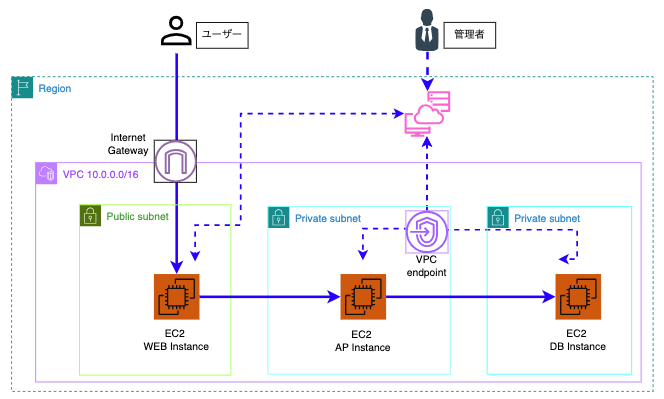
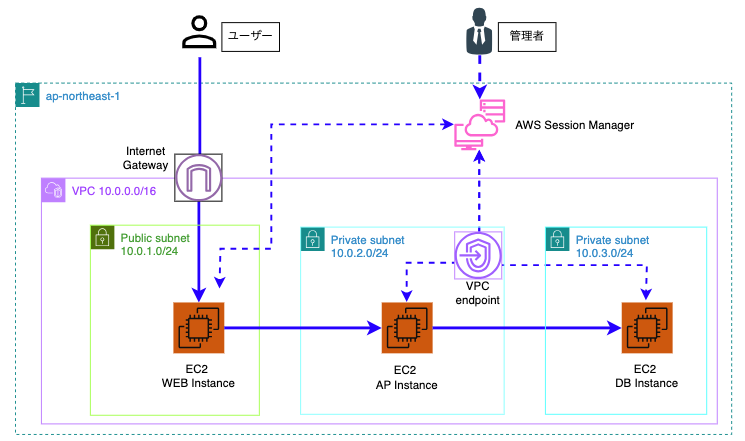
feat: マルチAZ冗長化、ALB、RDS Multi-AZの導入およびREADME・構成図の追加

diff --git a/README.md b/README.md
@@ -1,61 +1,52 @@
-# AWS × Terraform Web/AP/DB 3層インフラ基盤ポートフォリオ
+# AWS 高可用性 Web/AP/DB 3層アーキテクチャ（Terraform）
 
-AWSのベストプラクティスに基づき、堅牢なセキュリティ（SSM・サブネット多層分離・最小権限SG）とコスト最適化を両立させた Web/AP/DB の標準的な3層システム基盤をTerraform（IaC）でモジュール化して自動構築したプロジェクトです。
-
----
-
-## 🏛 アーキテクチャ構成図
-
-![Architecture Diagram](./portfolio.png)
+AWS 上にマルチAZ冗長化、多層防御、および踏み台レスなセキュア運用を組み込んだ 3層アーキテクチャを Terraform（IaC）で構築したポートフォリオです。
 
 ---
 
-## 🎯 設計のポイントとアピール要素
+## 1. システム構成図
 
-### 1. 多層防御を考慮したネットワーク・セキュリティ設計（SAA/SAP基準）
-* **Web / AP / DB サブネットの完全分離**
-  * **Public Subnet (10.0.1.0/24)**: 外部ネットワークからの通信の入り口となる Web 層を配置。
-  * **Private AP Subnet (10.0.2.0/24)**: ビジネスロジックを担う AP 層をインターネットから隔離された閉域網に配置。
-  * **Private DB Subnet (10.0.3.0/24)**: 重要なデータ層は独立した閉域サブネットへ隔離。
-* **22番（SSH）ポートの完全閉塞と AWS SSM Session Manager 導入**
-  * SSH (22/TCP) ポートを開放せず、AWS Systems Manager (SSM) Session Manager 経由でリモートアクセスを制御。
-  * 踏み台（Bastion）サーバー不要とし、管理コスト低減・鍵漏洩リスクの排除を実現。
-* **最小権限のセキュリティグループ（カスケード制御）**
-  * `web-sg`: 外部からの HTTP (80/TCP) 通信を許可。
-  * `ap-sg`: `web-sg` からの通信 (8080/TCP) のみを許可。
-  * `db-sg`: `ap-sg` からの通信 (3306/TCP) のみを許可し、Web層からの直接アクセスは完全遮断。
-
-### 2. 攻撃対象面（Attack Surface）の最小化（Minimal OSアプローチ）
-* 近年多発するミドルウェア・ランタイム層（Webサーバーやプログラミング言語環境等）の緊急脆弱性リスクを鑑み、OS起動時点では不要なパッケージやミドルウェアを含めない**最小構成（Minimal Infrastructure）**を採用。
-* 実運用時はマネージドサービス（Amazon RDS）や構成管理ツール（Ansible/コンテナ）を用いた適切なデプロイラインを前提とし、本ポートフォリオではインフラ基盤（IaC）の再現性に特化。
-
-### 3. Terraform による完全モジュール化（IaC）
-* `vpc` / `security_group` / `ec2` の機能別にモジュールを分離し、高い再利用性と保守性を実現。
-* `data "aws_ami"` を活用し、Amazon Linux 2023 の最新 AMI を自動取得。
+![システム構成図](./portfolio*.png)
 
 ---
 
-## 🛠 使用技術・環境
+## 2. アーキテクチャの設計思想と特徴
 
-| 分類 | 採用技術 |
-| :--- | :--- |
-| **Cloud** | AWS (VPC, Subnet, EC2, Elastic IP, IAM, SSM) |
-| **IaC** | Terraform (v1.2+) / AWS Provider (v5.x) |
-| **OS** | Amazon Linux 2023 (Web / AP / DB) |
-| **Security** | IAM Role (AmazonSSMManagedInstanceCore), Security Group |
+### ① Multi-AZ による高可用性（HA）
+- `ap-northeast-1a` と `ap-northeast-1c` の 2 つのアベイラビリティゾーンに Web・AP・DB 層を分散配置。
+- 単一のデータセンター障害が発生した場合でも、サービス継続が可能な耐障害性を確保。
+
+### ② 多層防御（ゼロトラスト志向の閉域化）
+- インターネット境界には ALB（Application Load Balancer）のみを配置。
+- Web・AP・DB はすべてプライベートサブネットに隔離し、前段からの特定ポートのみをセキュリティグループで連鎖的に許可（ALB ➔ Web ➔ AP ➔ DB）。
+
+### ③ ALB による負荷分散と自動切り離し
+- 2台の Web インスタンスへのトラフィック分散。
+- ヘルスチェック（`/` 監視）により、異常インスタンスを検知してトラフィックから自動除外。
+
+### ④ RDS Multi-AZ による耐障害性とデータ保護
+- Primary（1a）から Standby（1c）への**同期レプリケーション**を確立。
+- 定常時は両 AP サーバから Primary へアクセスし、障害発生時は自動フェイルオーバーによってダウンタイムを最小化。
+
+### ⑤ 踏み台レス・セキュアな運用管理
+- インターネットに露出する踏み台 EC2 や SSH 鍵の管理を排除。
+- **AWS Systems Manager (SSM) Session Manager** および Interface 型 VPC エンドポイント（ssm, ssmmessages, ec2messages）経由で、閉域内の AP サーバへ安全にアクセス。
+- RDS のメンテナンス時は、AP サーバを中継点とした SSM ポートフォワーディングにより、ローカル端末から安全に接続可能。
 
 ---
 
-## 📂 ディレクトリ構造
+## 3. ディレクトリ構成
 
-```text
+Terraform コードは責務ごとにモジュール分割し、保守性・再利用性を高めています。
+
 terraform/
-├── main.tf              # モジュール結合・メイン定義
-├── variables.tf         # ルート変数定義
-├── terraform.tfvars     # パラメータ設定値
-├── providers.tf         # AWSプロバイダー設定
-├── outputs.tf           # 構築後のIPアドレス等の出力定義
+├── main.tf                  # 各モジュールの呼び出し・結合
+├── variables.tf             # 共通変数定義
+├── outputs.tf               # 作成リソースの出力（ALB DNS名、IP等）
+├── terraform.tfvars         # 環境固有の変数値
 └── modules/
-    ├── vpc/             # VPC, Subnet (Public/AP/DB), Route Table定義
-    ├── security_group/  # Web / AP / DB 用階層型SG定義
-    └── ec2/             # IAM Role(SSM), EC2(3台), EIP定義
+    ├── vpc/                 # 8サブネット（Public/Web/AP/DB × 2AZ）+ IGW + ルートテーブル
+    ├── security_group/      # 各層のセキュリティグループ（チェーン構造）
+    ├── alb/                 # ALB本体、ターゲットグループ、リスナー
+    ├── ec2/                 # Web/AP インスタンス、IAMロール、SSM VPCエンドポイント
+    └── rds/                 # DBサブネットグループ、RDS Multi-AZ インスタンス
